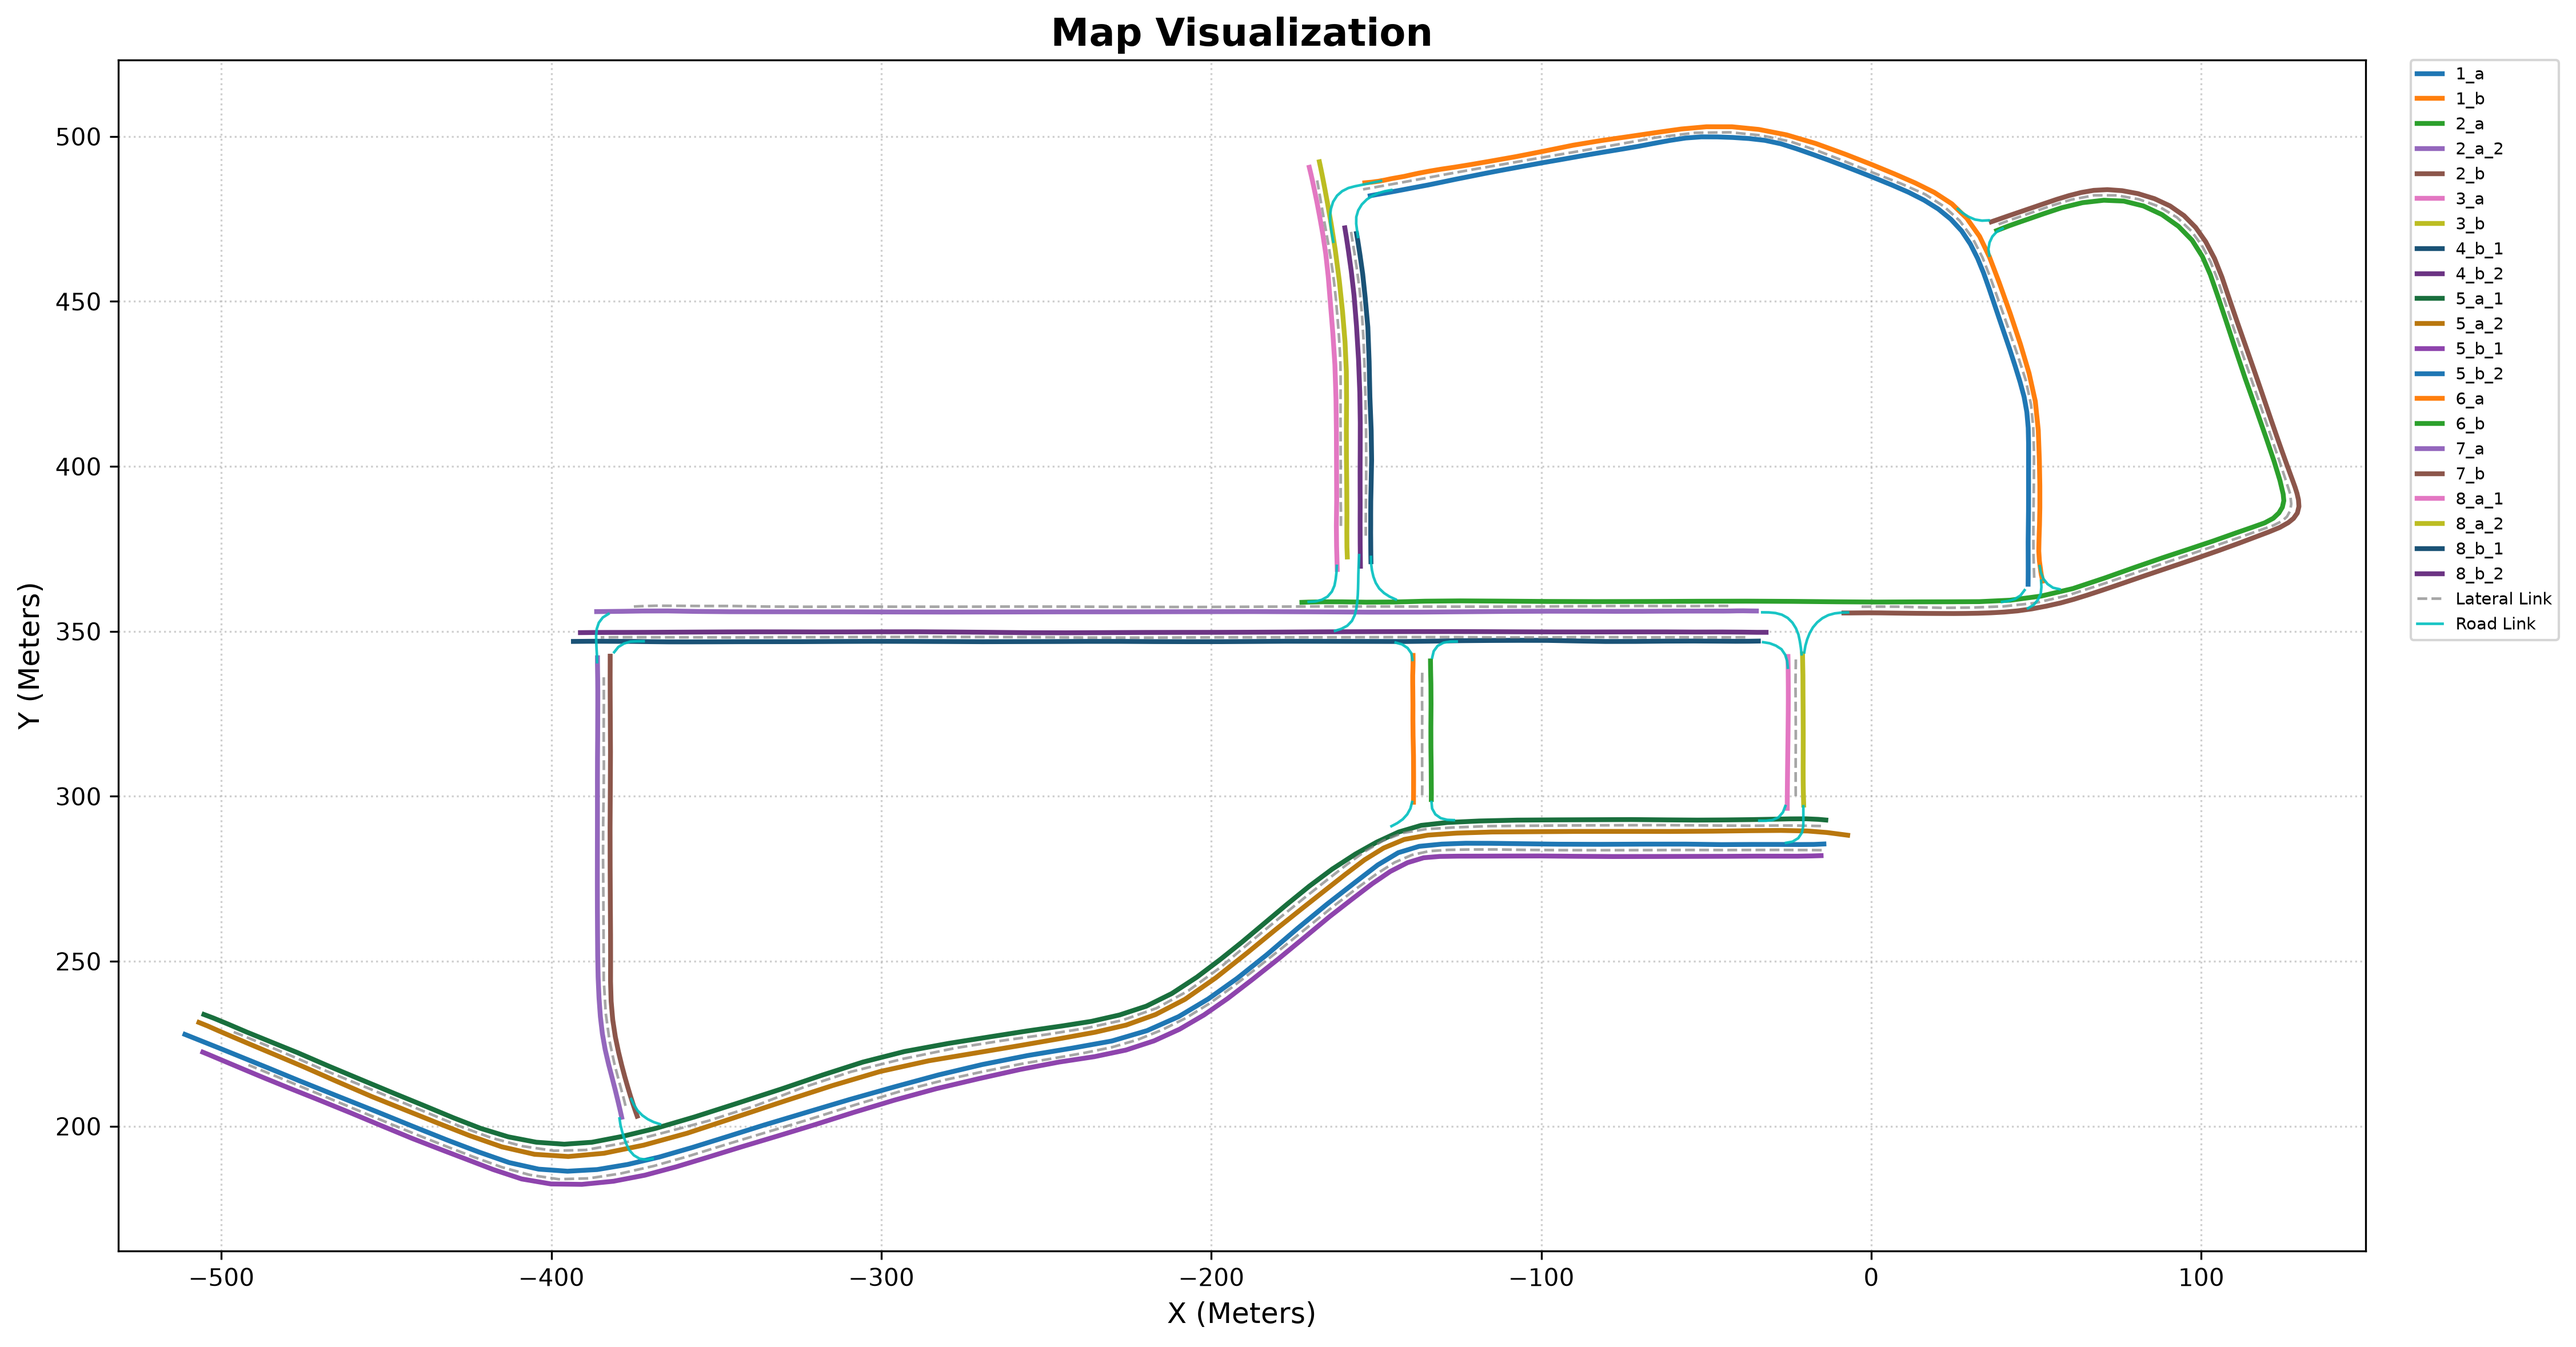
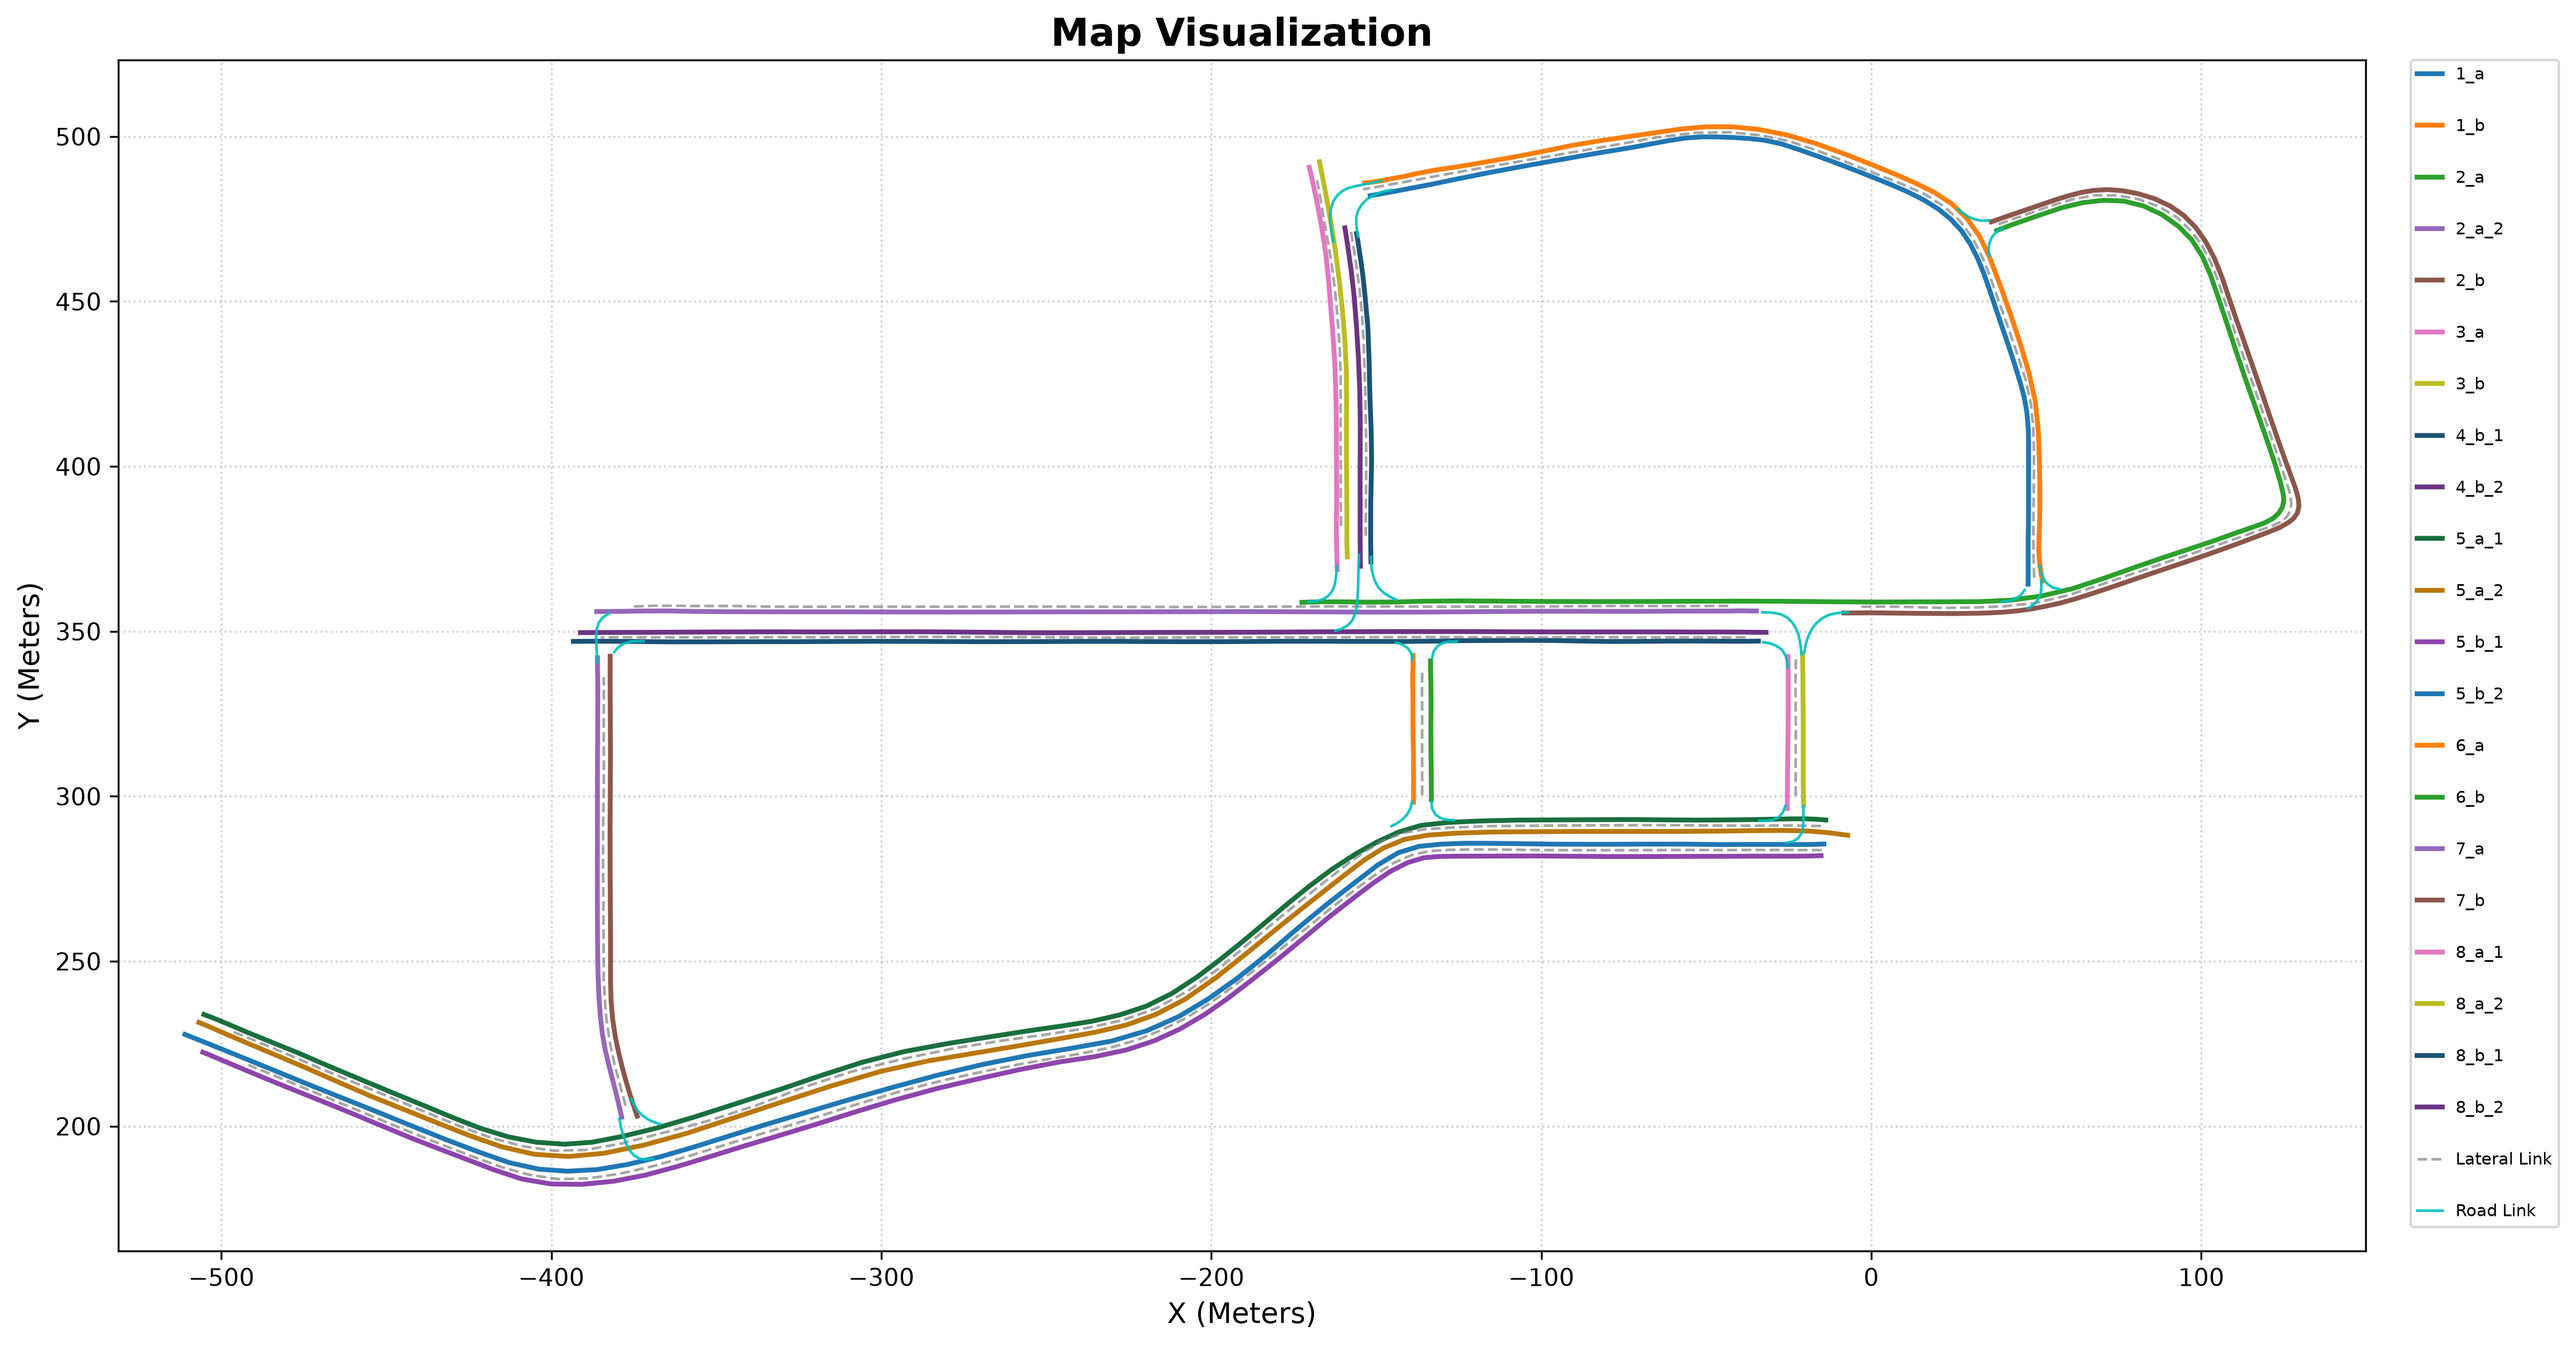
feat(ai_control): leyenda de 1 columna repartida al alto del mapa
Cuando todos los roads caben en una sola columna a espaciado natural pero
quedan MÁS CORTOS que el recuadro del mapa, se agranda `labelspacing` para
que los nombres bajen justo hasta el fondo (reparto vertical medido sobre el
render de sondeo, independiente del dpi). El caso multi-columna se mantiene.
Renders de south_drift_1 y test regenerados.

diff --git a/insims/ai_control/nav_modes/freeroam/map_renderer.py b/insims/ai_control/nav_modes/freeroam/map_renderer.py
@@ -216,13 +216,19 @@ def generate_map_image(json_path: str):
     ax.set_ylabel("Y (Meters)", fontsize=12)
     ax.grid(True, linestyle=":", alpha=0.6)
 
-    # Leyenda a la derecha: cada COLUMNA baja EXACTAMENTE lo que baja el mapa —
-    # se apilan nombres hacia abajo hasta llegar al fondo del mapa y solo a partir
-    # de ahí se abre la siguiente columna. El nº de filas por columna se MIDE sobre
-    # un render real (alto del recuadro del mapa / alto de una entrada), no se
-    # estima. matplotlib reparte las columnas de forma equilibrada por su cuenta;
-    # para forzar el llenado columna-a-columna (primera columna llena hasta el
-    # fondo, luego la siguiente) se rellena la última con entradas invisibles.
+    # Leyenda a la derecha: los nombres bajan SIEMPRE hasta el fondo del mapa (su
+    # extensión vertical == la del recuadro del mapa) y solo entonces se abre la
+    # siguiente columna. Dos casos, según quepan o no en una sola columna a
+    # espaciado natural:
+    #   • Caben de sobra (pocos roads) → 1 columna, pero se REPARTEN (se agranda el
+    #     `labelspacing`) hasta que ocupan justo el alto del mapa, sin dejar hueco.
+    #   • No caben (muchos roads) → multi-columna a espaciado natural, llenando
+    #     columna-a-columna hasta el fondo antes de saltar a la siguiente (la última
+    #     se rellena con entradas invisibles para que matplotlib no equilibre
+    #     columnas más cortas).
+    # El nº de filas por columna y el reparto se MIDEN sobre un render de sondeo
+    # (alto del recuadro del mapa / alto de la leyenda), no se estiman; los ratios
+    # son independientes del dpi.
     fig.tight_layout()
     handles, labels = ax.get_legend_handles_labels()
     if handles:
@@ -233,19 +239,28 @@ def generate_map_image(json_path: str):
             borderaxespad=0.0,
             fontsize=legend_fontsize,
         )
-        # Medición: alto del recuadro del mapa y alto de UNA entrada de leyenda
-        # (probe a 1 columna). El ratio es independiente del dpi.
+        # Medición: alto del recuadro del mapa y alto de la leyenda a 1 columna
+        # (sondeo con TODAS las entradas, a espaciado natural).
         fig.canvas.draw()
         pad_px = 0.4 * legend_fontsize * fig.dpi / 72.0  # borderpad (arriba+abajo)
         axes_h = ax.get_window_extent().height
         probe = ax.legend(handles, labels, ncol=1, **legend_kwargs)
         fig.canvas.draw()
-        per_entry = max(
-            1.0, (probe.get_window_extent().height - 2 * pad_px) / len(labels)
-        )
+        probe_h = probe.get_window_extent().height
+        per_entry = max(1.0, (probe_h - 2 * pad_px) / len(labels))
 
         rows_per_col = max(1, int((axes_h - 2 * pad_px) // per_entry))
         ncol = max(1, math.ceil(len(labels) / rows_per_col))
+
+        # Reparto vertical: si todo cabe en 1 columna que queda MÁS CORTA que el
+        # mapa, agrandar `labelspacing` (en unidades de tamaño de fuente) para que
+        # los nombres bajen justo hasta el fondo. El sondeo ya midió el alto natural
+        # (probe_h) a `labelspacing` por defecto (0.5); cada unidad extra añade
+        # `fs_px` de separación en cada uno de los (n-1) huecos.
+        labelspacing = 0.5
+        if ncol == 1 and len(labels) >= 2 and probe_h < axes_h:
+            fs_px = legend_fontsize * fig.dpi / 72.0
+            labelspacing = 0.5 + (axes_h - probe_h) / ((len(labels) - 1) * fs_px)
 
         # Con ≥2 columnas, rellenar hasta ncol*rows_per_col con entradas invisibles
         # para que cada columna se llene hasta el fondo del mapa antes de saltar a
@@ -262,6 +277,7 @@ def generate_map_image(json_path: str):
             ncol=ncol,
             handlelength=1.5,
             columnspacing=1.0,
+            labelspacing=labelspacing,
             **legend_kwargs,
         )
 
